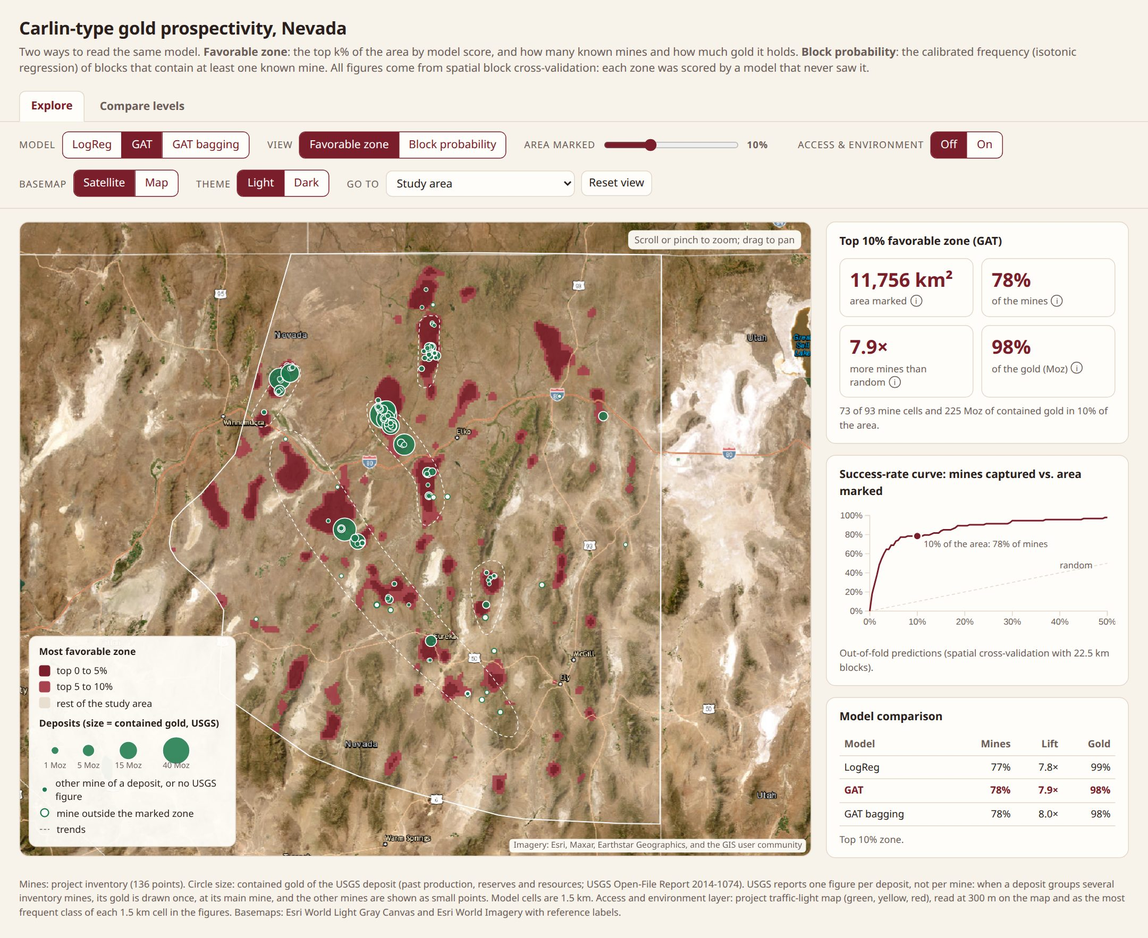
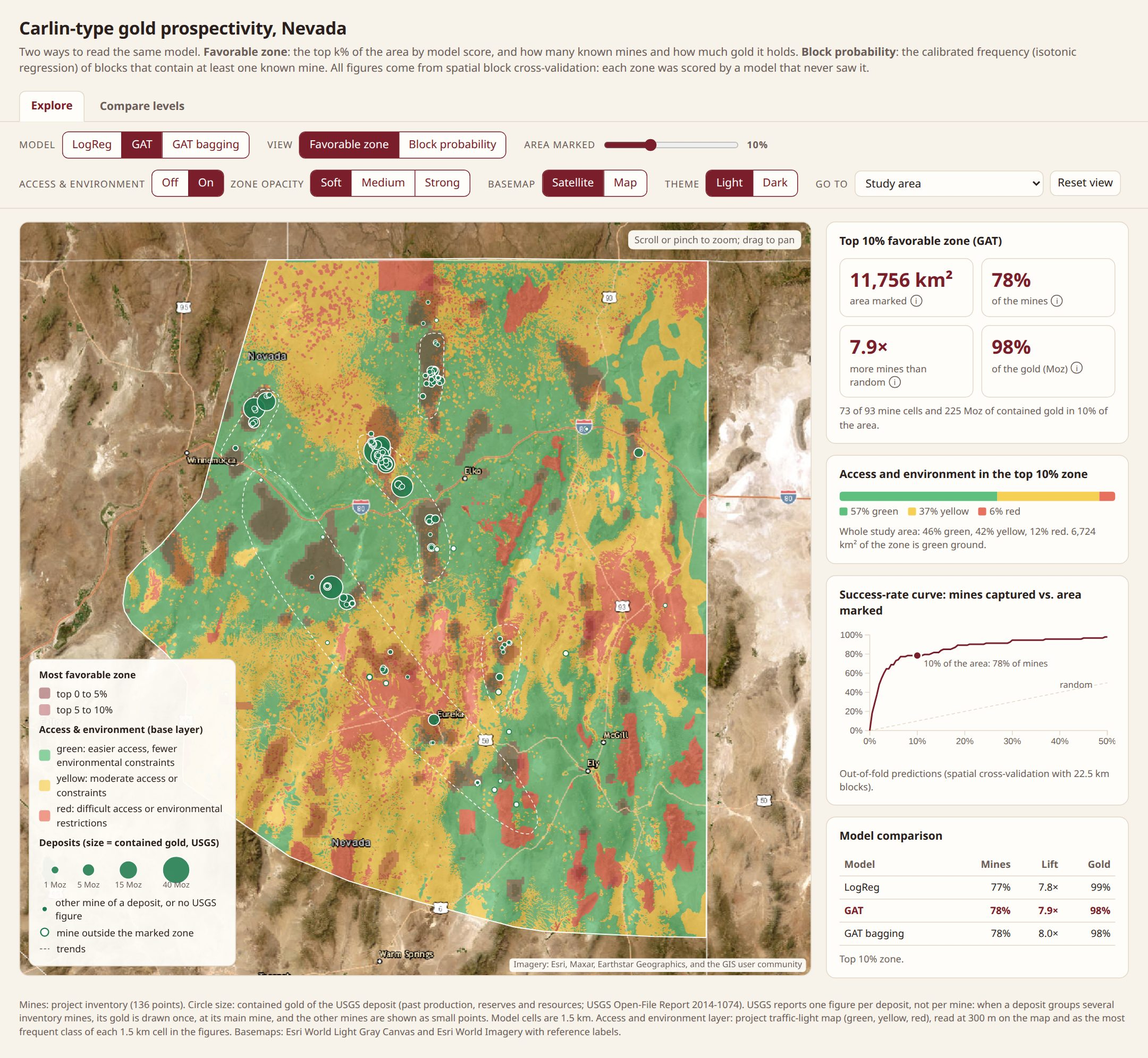
README screenshots with access and environment layer

diff --git a/README.md b/README.md
@@ -7,9 +7,9 @@ Interactive viewer for a graph neural network prospectivity model of Carlin-type
 The page is a single self-contained file (`index.html`): maps, model outputs, mines and charts are embedded, so it
 works offline and needs no server. Basemap tiles come from Esri.
 
-![Explore tab: top 10 % favorable zone of the GAT model, with known mines sized by contained gold](img/explore.jpg)
+![Explore tab: top 10 % favorable zone of the GAT model over the access and environment traffic light, with known mines sized by contained gold](img/explore.jpg)
 
-![Compare levels tab: top 5 % and top 20 % zones side by side, with the ablation between both levels](img/compare.jpg)
+![Compare levels tab: top 5 % and top 20 % zones side by side over the traffic light, with the ablation between both levels and the green ground in each](img/compare.jpg)
 
 ## Workflow
 
